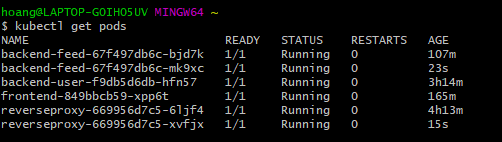
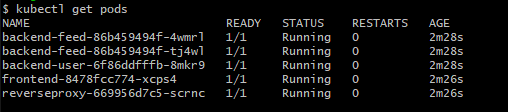
refactor log

diff --git a/udagram-api-feed/src/server.ts b/udagram-api-feed/src/server.ts
@@ -1,10 +1,11 @@
 import cors from 'cors';
 import express, { NextFunction, Request, Response } from 'express';
 import { sequelize } from './sequelize';
-
 import { IndexRouter } from './controllers/v0/index.router';
 import { config } from './config/config';
 import { V0_FEED_MODELS } from './controllers/v0/model.index';
+
+const { v4: uuidv4 } = require('uuid');
 
 (async () => {
 	await sequelize.addModels(V0_FEED_MODELS);
@@ -38,7 +39,22 @@ import { V0_FEED_MODELS } from './controllers/v0/model.index';
 
 	//add request logging
 	app.use((req: Request, res: Response, next: NextFunction) => {
-		console.log(`${req.method} ${req.url} ${new Date().toUTCString()} `);
+		const pid = uuidv4();
+		req.pid = pid;
+		console.log(
+			`${req.method} - ${req.url} - ${new Date().toUTCString()}: ${pid}`
+		);
+		next();
+	});
+
+	app.use((req: Request, res: Response, next: NextFunction) => {
+		res.on('finish', () => {
+			console.log(
+				`${req.method} - ${req.url} - ${new Date().toUTCString()}: ${
+					req.pid
+				} - ${res.statusCode}`
+			);
+		});
 		next();
 	});
 

diff --git a/udagram-api-user/src/server.ts b/udagram-api-user/src/server.ts
@@ -7,6 +7,8 @@ import { IndexRouter } from './controllers/v0/index.router';
 import { config } from './config/config';
 import { V0_USER_MODELS } from './controllers/v0/model.index';
 
+const { v4: uuidv4 } = require('uuid');
+
 (async () => {
 	await sequelize.addModels(V0_USER_MODELS);
 
@@ -39,7 +41,22 @@ import { V0_USER_MODELS } from './controllers/v0/model.index';
 
 	//add request logging
 	app.use((req: Request, res: Response, next: NextFunction) => {
-		console.log(`${req.method} ${req.url} ${new Date().toUTCString()} `);
+		const pid = uuidv4();
+		req.pid = pid;
+		console.log(
+			`${req.method} - ${req.url} - ${new Date().toUTCString()}: ${pid}`
+		);
+		next();
+	});
+
+	app.use((req: Request, res: Response, next: NextFunction) => {
+		res.on('finish', () => {
+			console.log(
+				`${req.method} - ${req.url} - ${new Date().toUTCString()}: ${
+					req.pid
+				} - ${res.statusCode}`
+			);
+		});
 		next();
 	});
 

diff --git a/udagram-api-feed/src/custom.d.ts b/udagram-api-feed/src/custom.d.ts
@@ -1,0 +1,5 @@
+declare namespace Express {
+	export interface Request {
+		pid?: string;
+	}
+}

diff --git a/udagram-api-user/src/custom.d.ts b/udagram-api-user/src/custom.d.ts
@@ -1,0 +1,5 @@
+declare namespace Express {
+	export interface Request {
+		pid?: string;
+	}
+}
